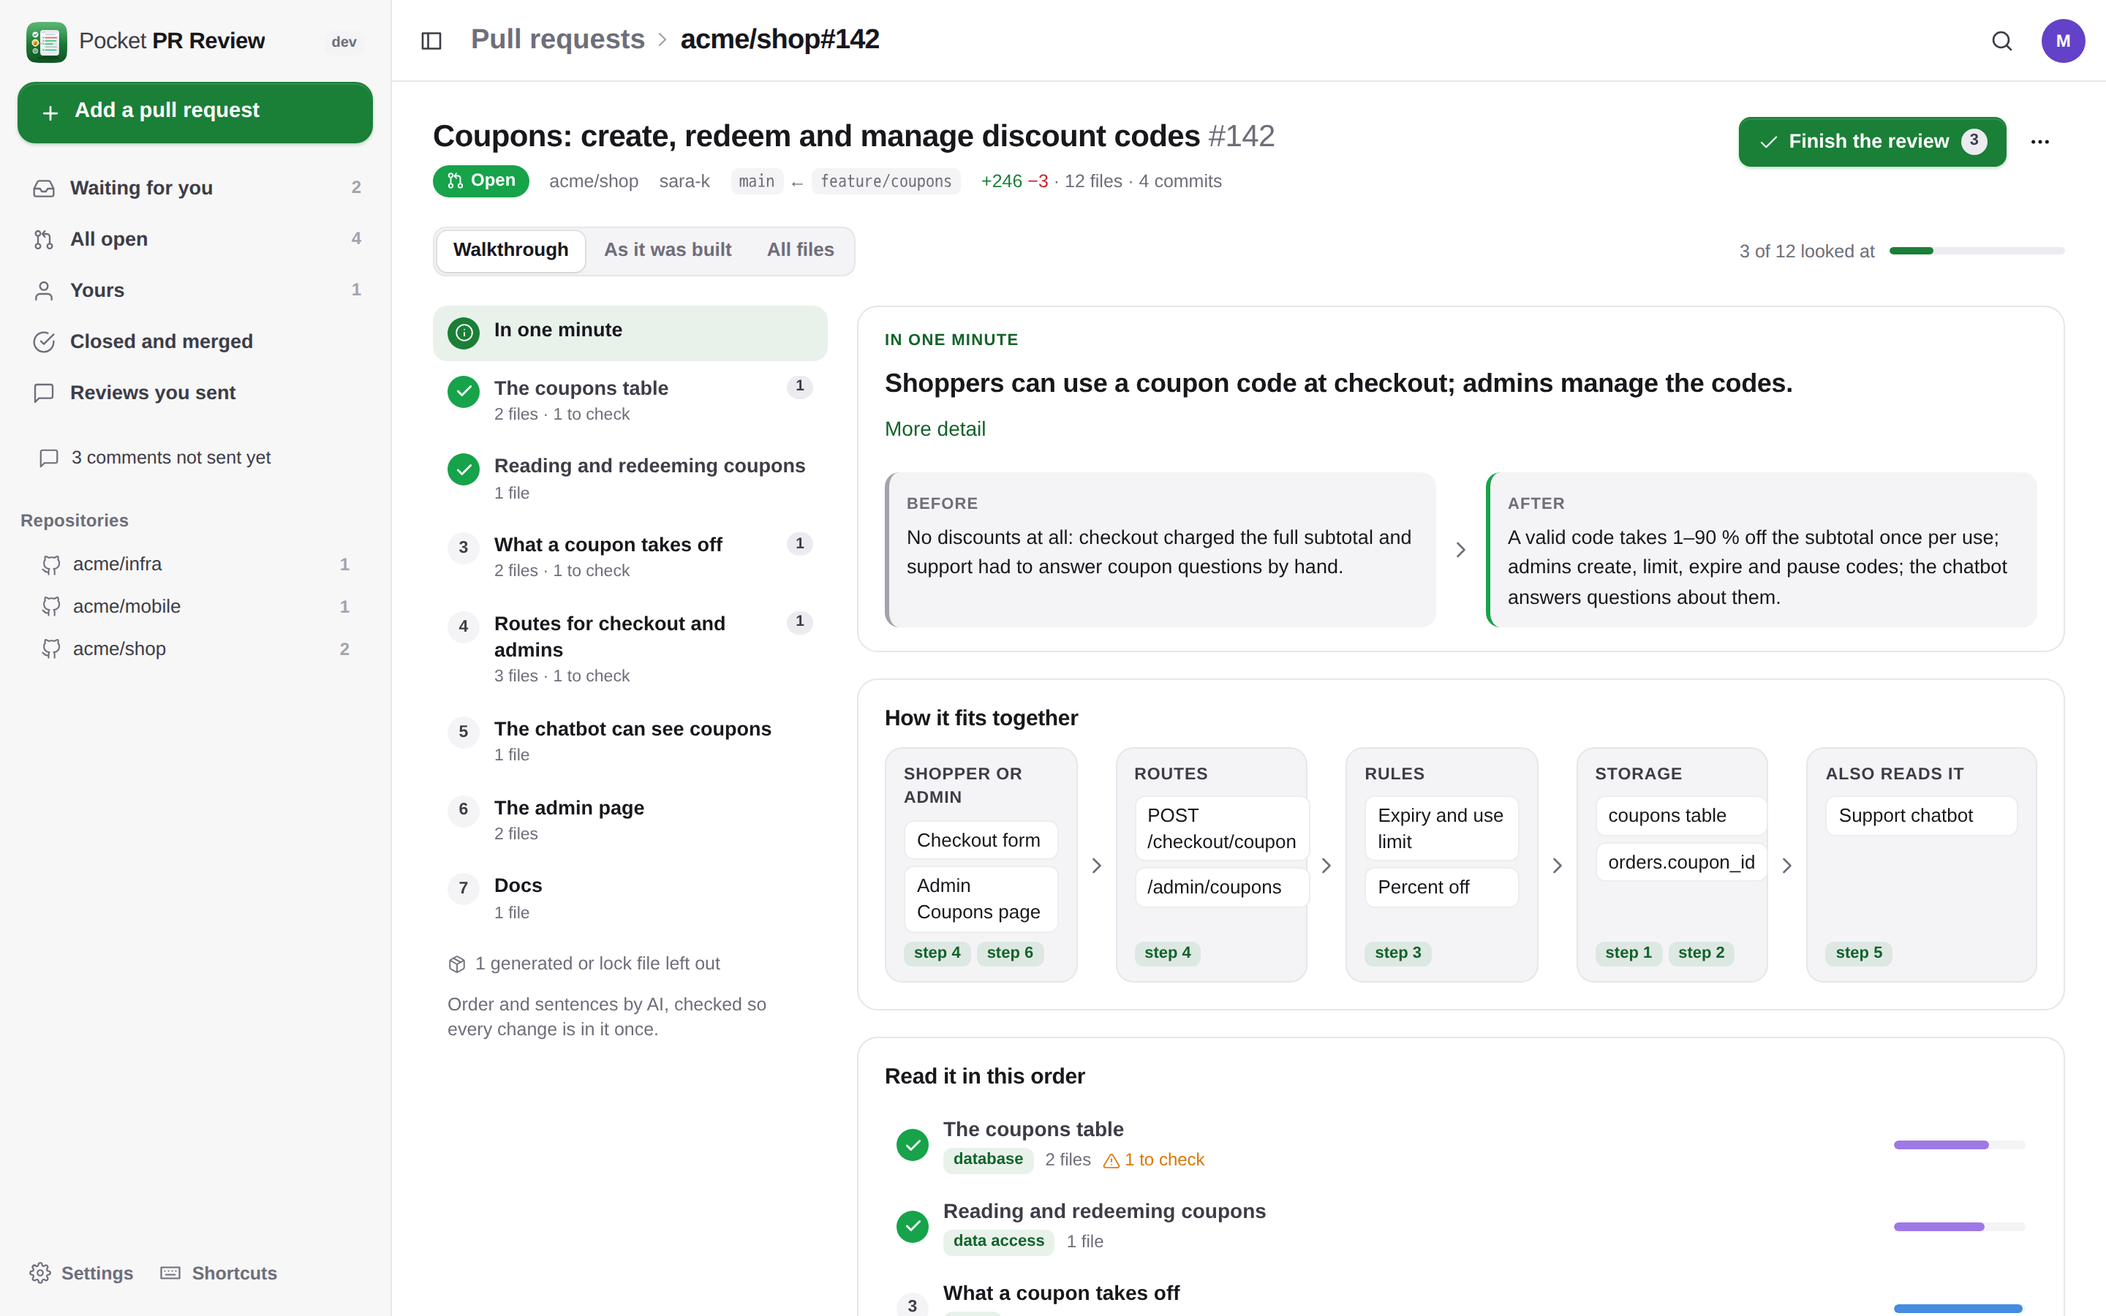
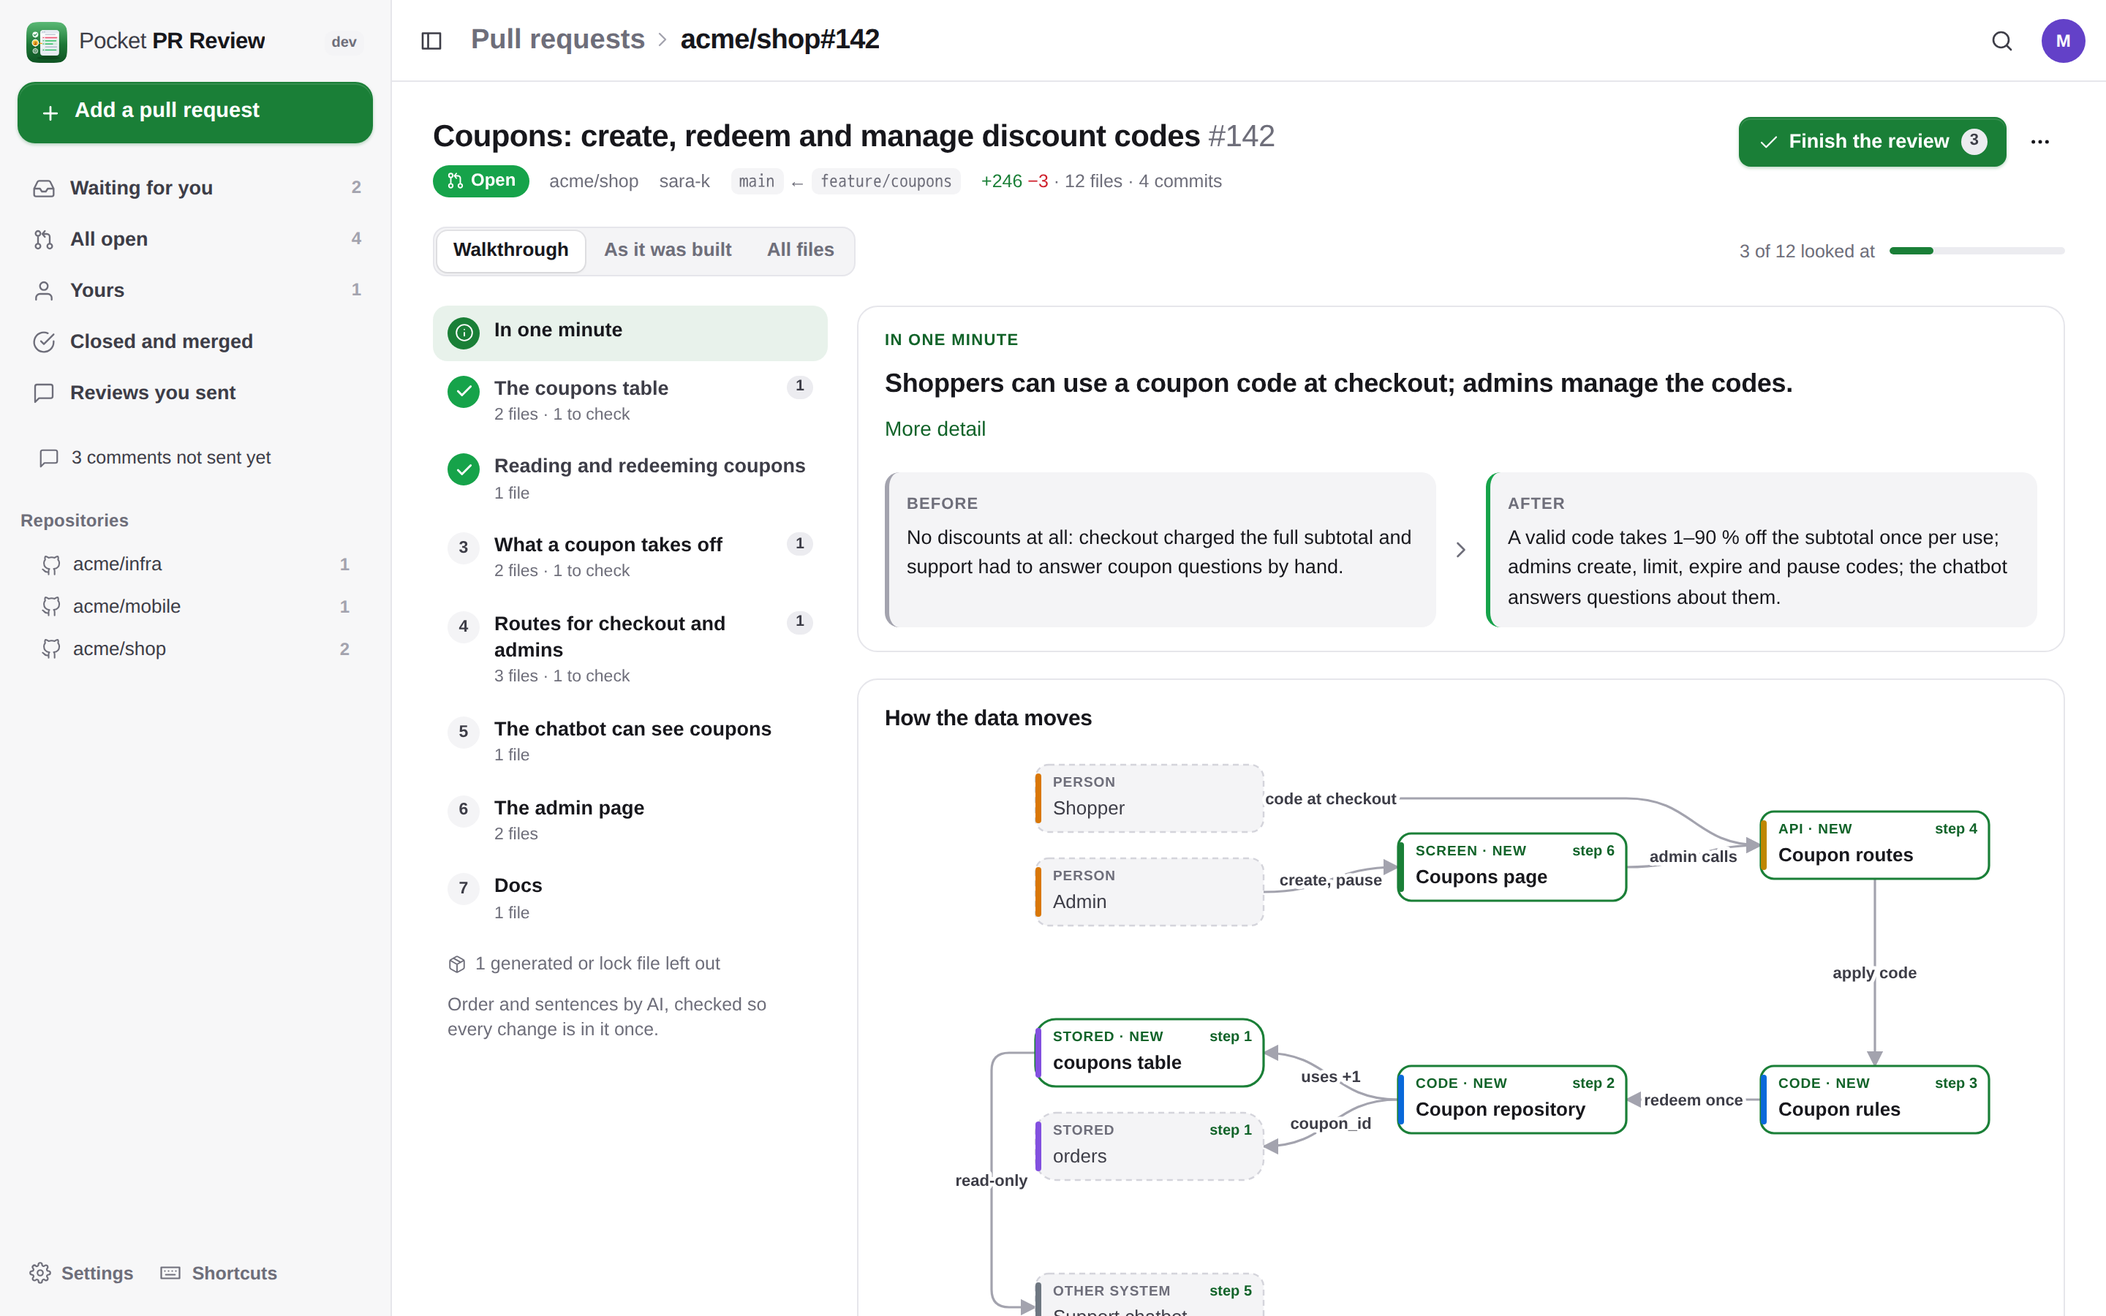
Data flow diagram: rows like a page, arrows around boxes, long names wrap
A long chain no longer turns into a thin column on a desktop: the layers
run left to right, then the next row right to left, as many to a row as
fit without shrinking the words. An arrow that changes rows with a box in
its way goes around the outside of the column. Long names break after
_ / . - instead of running out of their box. README and its overview
screenshots follow.

diff --git a/web/src/components/DataFlow.tsx b/web/src/components/DataFlow.tsx
@@ -6,27 +6,42 @@ import type { Diagram, DNode } from '../lib/types'
 const KIND_LABEL: Record<string, string> = { actor: 'person', event: 'event', code: 'code', store: 'stored', api: 'API', ui: 'screen', external: 'other system' }
 const LINE = 16
 const PAD_X = 12
-const CHARS = 18
 
-/** Words into lines of at most CHARS characters. */
-function wrap(s: string): string[] {
+/** Words into lines of at most CHARS characters; a long name breaks after _ / . - */
+function wrap(s: string, CHARS: number): string[] {
+  const words = s.split(/\s+/).flatMap(w => w.length <= CHARS ? [w] : (w.match(/[^_/.-]*[_/.-]?/g) || [w]).filter(Boolean).map((p, i, a) => i < a.length - 1 ? p + '\u0001' : p))
   const out: string[] = []
   let cur = ''
-  for (const w of s.split(/\s+/)) {
-    if (cur && (cur + ' ' + w).length > CHARS) { out.push(cur); cur = w } else cur = cur ? cur + ' ' + w : w
+  for (const w of words) {
+    const glue = cur.endsWith('\u0001') ? '' : ' '
+    if (cur && (cur + glue + w).replace(/\u0001/g, '').length > CHARS) { out.push(cur); cur = w } else cur = cur ? cur + glue + w : w
   }
   if (cur) out.push(cur)
-  return out.slice(0, 3)
+  const lines = out.map(l => l.replace(/\u0001/g, ''))
+  return lines.length > 3 ? [...lines.slice(0, 2), lines.slice(2).join('').slice(0, CHARS - 1) + '…'] : lines
 }
 
 interface Box { n: DNode; lines: string[]; rank: number; x: number; y: number; w: number; h: number; virtual?: boolean }
-interface Route { label: string; back: boolean; pts: { x: number; y: number }[] }
+type Pt = { x: number; y: number }
+interface Seg { a: Pt; b: Pt; vert: boolean; sign: number; side?: number } // sign: which way the curve leaves a; side: x of a bracket around the column
+interface Route { label: string; back: boolean; segs: Seg[] }
 
 const W = 156
+const GAP_N = 18 // between boxes of one layer
+const GAP_L = 92 // between layers in a row (room for the arrow's words)
+const GAP_ROW = 64 // between rows, and between layers top to bottom
 
-function layout(d: Diagram, vertical: boolean) {
-  const GAP_R = vertical ? 66 : 96 // between layers (room for the arrow's words)
-  const GAP_N = vertical ? 16 : 18 // between boxes of one layer
+/** How many layers fit in a row of this width without shrinking the words much. */
+export function perRow(avail: number) { return Math.max(1, Math.floor((avail / 0.9 + GAP_L) / (W + GAP_L))) }
+
+/**
+ * Boxes in layers by the longest path to them. cols = layers per row: they
+ * run left to right, then the next row right to left (a snake), so a long
+ * chain reads like a page; cols = 0 puts each layer in a row of its own
+ * (top to bottom, for a phone).
+ */
+function layout(d: Diagram, cols: number) {
+  const down = cols === 0
   const ids = new Set(d.nodes.map(n => n.id))
   const edges = d.edges.filter(e => ids.has(e.from) && ids.has(e.to))
   const inn = new Map<string, string[]>()
@@ -47,7 +62,7 @@ function layout(d: Diagram, vertical: boolean) {
   }
   d.nodes.forEach(n => visit(n.id))
 
-  // an arrow across several layers passes through a small invisible box in each
+  // an arrow across several layers passes through an invisible point in each
   const chains: string[][] = []
   const vnodes: DNode[] = []
   edges.forEach((e, i) => {
@@ -62,10 +77,8 @@ function layout(d: Diagram, vertical: boolean) {
     chain.push(e.to)
     chains.push(chain)
   })
-  // inputs one layer up, through the invisible boxes too
   const adj = new Map<string, string[]>()
   for (const c of chains) for (let k = 1; k < c.length; k++) if (rank.get(c[k])! - rank.get(c[k - 1])! === 1) adj.set(c[k], [...(adj.get(c[k]) || []), c[k - 1]])
-  const preds = (id: string) => adj.get(id) || []
 
   const layers: DNode[][] = []
   for (const n of [...d.nodes, ...vnodes]) (layers[rank.get(n.id)!] ||= []).push(n)
@@ -74,71 +87,115 @@ function layout(d: Diagram, vertical: boolean) {
   layers.forEach(l => l.forEach((n, i) => pos.set(n.id, i)))
   for (let sweep = 0; sweep < 3; sweep++) {
     for (const l of layers.slice(1)) {
-      const bary = (n: DNode) => { const ps = preds(n.id).map(p => pos.get(p)).filter((x): x is number => x !== undefined); return ps.length ? ps.reduce((a, b) => a + b, 0) / ps.length : pos.get(n.id)! }
+      const bary = (n: DNode) => { const ps = (adj.get(n.id) || []).map(p => pos.get(p)).filter((x): x is number => x !== undefined); return ps.length ? ps.reduce((a, b) => a + b, 0) / ps.length : pos.get(n.id)! }
       const by = new Map(l.map(n => [n.id, bary(n)]))
       l.sort((a, b) => by.get(a.id)! - by.get(b.id)!).forEach((n, i) => pos.set(n.id, i))
     }
   }
 
-  const VW = 14 // an invisible box's room
+  const VW = 12 // an invisible point's room
   const sizes = layers.map(l => l.map(n => {
     const virtual = n.kind === 'virtual'
-    const lines = virtual ? [] : wrap(n.label)
-    return { n, lines, virtual, h: virtual ? (vertical ? 52 : VW) : 30 + lines.length * LINE, w: virtual ? (vertical ? VW : W) : W }
+    const lines = virtual ? [] : wrap(n.label, 18)
+    return { n, lines, virtual, w: virtual ? (down ? VW : W) : W, h: virtual ? (down ? 0 : VW) : 30 + lines.length * LINE }
   }))
-  const along = sizes.map(l => l.reduce((a, b) => a + (vertical ? b.w : b.h), 0) + (l.length - 1) * GAP_N)
-  const span = Math.max(...along)
   const boxes = new Map<string, Box>()
-  let across = 0
-  sizes.forEach((l, r) => {
-    let at = (span - along[r]) / 2
-    const thick = vertical ? Math.max(...l.map(b => b.virtual ? 0 : b.h), 30) : W
+  const place = (r: number, x0: number, y0: number, along: number) => {
+    // a layer's boxes side by side (top to bottom) or stacked (across), centered on `along`
+    const l = sizes[r]
+    const total = l.reduce((a, b) => a + (down ? b.w : b.h), 0) + (l.length - 1) * GAP_N
+    let at = (along - total) / 2
+    const thick = down ? Math.max(...l.map(b => b.h), 30) : W
     for (const b of l) {
       const box: Box = { n: b.n, lines: b.lines, rank: r, w: b.w, h: b.h, x: 0, y: 0, virtual: b.virtual }
-      if (vertical) { box.x = at; box.y = across + (thick - b.h) / 2; at += b.w + GAP_N } else { box.x = across; box.y = at; at += b.h + GAP_N }
+      if (down) { box.x = x0 + at; box.y = y0 + (thick - b.h) / 2; at += b.w + GAP_N } else { box.x = x0; box.y = y0 + at; at += b.h + GAP_N }
       boxes.set(b.n.id, box)
     }
-    across += thick + GAP_R
-  })
-  across -= GAP_R
-
-  const routes: Route[] = chains.map((c, i) => {
-    const a = boxes.get(c[0])!, b = boxes.get(c[c.length - 1])!
-    const back = b.rank <= a.rank
-    const pts: { x: number; y: number }[] = []
-    if (vertical) {
-      pts.push({ x: a.x + a.w / 2, y: back ? a.y : a.y + a.h })
-      for (const v of c.slice(1, -1)) { const x = boxes.get(v)!; pts.push({ x: x.x + x.w / 2, y: x.y }, { x: x.x + x.w / 2, y: x.y + x.h }) }
-      pts.push({ x: b.x + b.w / 2, y: back ? b.y + b.h : b.y })
-    } else {
-      pts.push({ x: back ? a.x : a.x + a.w, y: a.y + a.h / 2 })
-      for (const v of c.slice(1, -1)) { const x = boxes.get(v)!; pts.push({ x: x.x, y: x.y + x.h / 2 }, { x: x.x + x.w, y: x.y + x.h / 2 }) }
-      pts.push({ x: back ? b.x + b.w : b.x, y: b.y + b.h / 2 })
+  }
+  const lengthOf = (r: number) => sizes[r].reduce((a, b) => a + (down ? b.w : b.h), 0) + (sizes[r].length - 1) * GAP_N
+  const rowOf = (r: number) => down ? r : Math.floor(r / cols)
+  const dirOf = (r: number) => down ? 1 : rowOf(r) % 2 === 0 ? 1 : -1
+  let width = 0, height = 0
+  if (down) {
+    width = Math.max(...layers.map((_, r) => lengthOf(r)))
+    let y = 0
+    layers.forEach((_, r) => { const thick = Math.max(...sizes[r].map(b => b.h), 30); place(r, 0, y, width); y += thick + GAP_ROW })
+    height = y - GAP_ROW
+  } else {
+    const n = Math.min(cols, layers.length)
+    width = n * W + (n - 1) * GAP_L
+    let y = 0
+    for (let row = 0; row * cols < layers.length; row++) {
+      const rs = layers.map((_, r) => r).filter(r => rowOf(r) === row)
+      const tall = Math.max(...rs.map(lengthOf))
+      for (const r of rs) {
+        const col = r % cols
+        const slot = dirOf(r) === 1 ? col : n - 1 - col
+        place(r, slot * (W + GAP_L), y, tall)
+      }
+      y += tall + GAP_ROW
     }
-    return { label: edges[i].label, back, pts }
+    height = y - GAP_ROW
+  }
+
+  // each piece of an arrow: across within a row, down between rows
+  const order = new Map<string, [number, number]>() // place in its layer, boxes in the layer
+  sizes.forEach(l => l.forEach((b, i) => order.set(b.n.id, [i, l.length])))
+  const segOf = (u: Box, v: Box): Seg => {
+    const back = v.rank <= u.rank
+    const [ui, un] = order.get(u.n.id)!, [vi] = order.get(v.n.id)!
+    if (!down && !back && rowOf(u.rank) !== rowOf(v.rank) && (ui < un - 1 || vi > 0)) {
+      // a box under u or over v: go around the outside of the column instead of through it
+      const right = dirOf(u.rank) === 1
+      const x = right ? u.x + u.w : u.x
+      return { a: { x, y: u.y + u.h / 2 }, b: { x: right ? v.x + v.w : v.x, y: v.y + v.h / 2 }, vert: true, sign: 1, side: x + (right ? 30 : -30) }
+    }
+    if (down || rowOf(u.rank) !== rowOf(v.rank)) {
+      const up = back && rowOf(v.rank) <= rowOf(u.rank)
+      return { a: { x: u.x + u.w / 2, y: up ? u.y : u.y + u.h }, b: { x: v.x + v.w / 2, y: up ? v.y + v.h : v.y }, vert: true, sign: up ? -1 : 1 }
+    }
+    const right = v.x > u.x
+    return { a: { x: right ? u.x + u.w : u.x, y: u.y + u.h / 2 }, b: { x: right ? v.x : v.x + v.w, y: v.y + v.h / 2 }, vert: false, sign: right ? 1 : -1 }
+  }
+  const routes: Route[] = chains.map((c, i) => {
+    const bs = c.map(id => boxes.get(id)!)
+    const back = bs[bs.length - 1].rank <= bs[0].rank
+    const segs: Seg[] = []
+    for (let k = 1; k < bs.length; k++) segs.push(segOf(bs[k - 1], bs[k]))
+    return { label: edges[i].label, back, segs }
   })
-  return { boxes: [...boxes.values()].filter(b => !b.virtual), routes, width: vertical ? span : across, height: vertical ? across : span }
+  const sides = routes.flatMap(r => r.segs.map(s => s.side).filter((x): x is number => x !== undefined))
+  const minX = Math.min(0, ...sides.map(x => x - 40)), maxX = Math.max(width, ...sides.map(x => x + 40))
+  return { boxes: [...boxes.values()].filter(b => !b.virtual), routes, minX, width: maxX - minX, height }
 }
 
-/** A smooth path through the points: curves between layers, straight through a passed layer. */
-function pathOf(r: Route, vertical: boolean) {
-  const p = r.pts
-  let d = `M${p[0].x},${p[0].y}`
-  for (let i = 1; i < p.length; i++) {
-    const a = p[i - 1], b = p[i]
-    if (i % 2 === 0) { d += ` L${b.x},${b.y}`; continue } // inside a passed layer
-    const k = Math.max(24, Math.abs(vertical ? b.y - a.y : b.x - a.x) / 2) * (r.back ? -1 : 1)
-    d += vertical ? ` C${a.x},${a.y + k} ${b.x},${b.y - k} ${b.x},${b.y}` : ` C${a.x + k},${a.y} ${b.x - k},${b.y} ${b.x},${b.y}`
-  }
+function ctrl(s: Seg): [Pt, Pt] {
+  const { a, b } = s
+  const k = Math.max(24, Math.abs(s.vert ? b.y - a.y : b.x - a.x) / 2) * s.sign
+  return s.vert ? [{ x: a.x, y: a.y + k }, { x: b.x, y: b.y - k }] : [{ x: a.x + k, y: a.y }, { x: b.x - k, y: b.y }]
+}
+
+/** A smooth path through the pieces; a line joins pieces that meet at a passed point. */
+function pathOf(r: Route) {
+  let d = ''
+  r.segs.forEach((s, i) => {
+    if (s.side !== undefined) {
+      const x = s.side, k = Math.sign(x - s.a.x) * 12
+      d += `${i === 0 ? 'M' : ' L'}${s.a.x},${s.a.y} L${x - k},${s.a.y} Q${x},${s.a.y} ${x},${s.a.y + 12} L${x},${s.b.y - 12} Q${x},${s.b.y} ${x - k},${s.b.y} L${s.b.x},${s.b.y}`
+      return
+    }
+    const [c1, c2] = ctrl(s)
+    d += `${i === 0 ? `M${s.a.x},${s.a.y}` : ` L${s.a.x},${s.a.y}`} C${c1.x},${c1.y} ${c2.x},${c2.y} ${s.b.x},${s.b.y}`
+  })
   return d
 }
 
-/** Where an arrow's words go: the middle of its first curve. */
-function labelAt(r: Route, vertical: boolean) {
-  const a = r.pts[0], b = r.pts[1]
-  const k = Math.max(24, Math.abs(vertical ? b.y - a.y : b.x - a.x) / 2) * (r.back ? -1 : 1)
-  const [c1, c2] = vertical ? [{ x: a.x, y: a.y + k }, { x: b.x, y: b.y - k }] : [{ x: a.x + k, y: a.y }, { x: b.x - k, y: b.y }]
-  return { x: (a.x + 3 * c1.x + 3 * c2.x + b.x) / 8, y: (a.y + 3 * c1.y + 3 * c2.y + b.y) / 8 }
+/** Where an arrow's words go: the middle of its first piece. */
+function labelAt(r: Route): Pt {
+  const s = r.segs[0]
+  if (s.side !== undefined) return { x: s.side, y: (s.a.y + s.b.y) / 2 }
+  const [c1, c2] = ctrl(s)
+  return { x: (s.a.x + 3 * c1.x + 3 * c2.x + s.b.x) / 8, y: (s.a.y + 3 * c1.y + 3 * c2.y + s.b.y) / 8 }
 }
 
 /** The width of an element, as it changes. */
@@ -157,21 +214,20 @@ function useWidth() {
 
 export function DataFlow({ diagram, vertical: phone, onStep }: { diagram: Diagram; vertical: boolean; onStep: (n: number) => void }) {
   const [ref, avail] = useWidth()
-  const across = useMemo(() => layout(diagram, false), [diagram])
-  // left to right when it fits without shrinking the words much; else top to bottom
-  const vertical = phone || (avail > 0 && across.width * 0.85 > avail)
-  const down = useMemo(() => layout(diagram, true), [diagram])
-  const { boxes, routes, width, height } = vertical ? down : across
+  // as many layers per row as fit; a phone, or room for only one, goes top to bottom
+  const cols = phone || avail === 0 ? 0 : perRow(avail)
+  const vertical = cols < 2
+  const { boxes, routes, minX, width, height } = useMemo(() => layout(diagram, vertical ? 0 : cols), [diagram, vertical, cols])
   const M = 8
   const anyOld = diagram.nodes.some(n => !n.new)
   return (
     <div className="df" ref={ref}>
       <div className={`df-scroll ${vertical ? 'v' : ''}`}>
-        <svg className="df-svg" viewBox={`${-M} ${-M} ${width + 2 * M} ${height + 2 * M}`} width={Math.min(width + 2 * M, avail || width + 2 * M)} role="img" aria-label="How data moves through this change">
+        <svg className="df-svg" viewBox={`${minX - M} ${-M} ${width + 2 * M} ${height + 2 * M}`} width={Math.min(width + 2 * M, avail || width + 2 * M)} role="img" aria-label="How data moves through this change">
           <defs>
             <marker id="df-arrow" viewBox="0 0 10 10" refX="9" refY="5" markerWidth="7" markerHeight="7" orient="auto-start-reverse"><path d="M0,0 L10,5 L0,10 z" className="df-head" /></marker>
           </defs>
-          {routes.map((r, i) => <path key={i} className={`df-edge ${r.back ? 'back' : ''}`} d={pathOf(r, vertical)} markerEnd="url(#df-arrow)" />)}
+          {routes.map((r, i) => <path key={i} className={`df-edge ${r.back ? 'back' : ''}`} d={pathOf(r)} markerEnd="url(#df-arrow)" />)}
           {boxes.map(b => {
             const go = b.n.step > 0 ? () => onStep(b.n.step) : undefined
             return (
@@ -186,7 +242,7 @@ export function DataFlow({ diagram, vertical: phone, onStep }: { diagram: Diagra
               </g>
             )
           })}
-          {routes.map((r, i) => { const at = labelAt(r, vertical); return r.label && <text key={i} x={at.x} y={at.y} dy="0.35em" textAnchor="middle" className="df-elabel">{r.label}</text> })}
+          {routes.map((r, i) => { const at = labelAt(r); return r.label && <text key={i} x={at.x} y={at.y} dy="0.35em" textAnchor="middle" className="df-elabel">{r.label}</text> })}
         </svg>
       </div>
       <div className="df-legend muted small">

diff --git a/README.md b/README.md
@@ -57,7 +57,7 @@ A pull request page lists the changed files by name. That is the order of the al
   noise: ["**/*.snap"]
   ```
 - **As it was built**: the commits in order with what each one changed; when a coding agent in Pocket AI made the pull request, also every file it edited and what it said just before.
-- **The pull request in one minute**: one sentence on what it does, before and after, a diagram of how the new pieces connect, the steps with how much each changes, the risks worth a careful look (high, medium, low, with their files), the codebase's words a newcomer needs, and questions for the author. Written for someone who has never seen the pull request. Ask the AI about a step.
+- **The pull request in one minute**: one sentence on what it does, before and after, a diagram of how the data moves through what it adds (new pieces and existing ones, what moves along each arrow, each box opening its step), the steps with how much each changes, the risks worth a careful look (high, medium, low, with their files), the codebase's words a newcomer needs, and questions for the author. Written for someone who has never seen the pull request. Ask the AI about a step.
 - **What you looked at**: mark a file or a whole step; a later commit that changes a part unmarks just that part (“changed since you looked”). New commits make a new walkthrough by themselves.
 - **Review where you read**: comment on a line or a range, note on a step, read and answer the GitHub conversation in place, then approve, ask for changes or comment — sent to GitHub as one review. Or post the walkthrough on the pull request for the whole team.
 - **Hand it to a coding agent**: your comments go to Claude Code or Codex through Pocket AI, in the repository's folder on the pull request's branch; you read the prompt there and press send.
